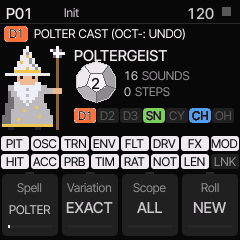
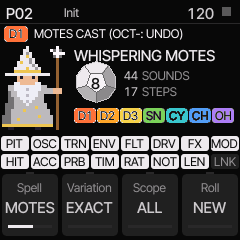
Site: new screens (Rings' resonator, Plaits' speech, plate and hall reverbs; Spells: Whispering Motes cast)

diff --git a/web/index.html b/web/index.html
@@ -165,13 +165,15 @@
     </div>
 
     <div class="feature">
-      <figure class="screen"><img src="shots/spells.png" alt="SPELLS: the wizard, Poltergeist cast on three tracks, the twelve-sided die showing 11" width="240" height="240" loading="lazy"></figure>
+      <figure class="screen"><img src="shots/spells.png" alt="SPELLS: the wizard, Whispering Motes cast on all seven tracks, the twelve-sided die showing 8" width="240" height="240" loading="lazy"></figure>
       <div>
         <h3>Spells</h3>
-        <p>Pick tracks with the black keys and what may change with the white keys, pick one of ten spells and press COPY (OCT+): a twelve-sided die rolls
+        <p>Pick tracks with the black keys and what may change with the white keys, pick one of eleven spells and press COPY (OCT+): a twelve-sided die rolls
           and the spell rewrites the sound and the steps in its own direction. Poltergeist makes metallic rattles,
           Skeleton strips a groove to its bones, Haunted Dub darkens and echoes, Glass Cathedral tunes everything
-          to one key. Roll again, take it back exactly with SHIFT (OCT−), or keep it and save it as a recipe.</p>
+          to one key. Or pick NONE for plain chance, from a nudge to anything at all, and choose which engines a cast may
+          give the voices: LXR, Rings, Plaits or MICRO. Roll again, take it back exactly with SHIFT (OCT−), or keep it
+          and save it as a recipe.</p>
       </div>
     </div>
 
@@ -217,6 +219,10 @@
       <figure class="screen"><img src="shots/global-lfo.png" alt="A global LFO's mode page" width="240" height="240" loading="lazy"><figcaption>A global LFO</figcaption></figure>
       <figure class="screen"><img src="shots/mixer.png" alt="The mixer's volume page" width="240" height="240" loading="lazy"><figcaption>The mixer</figcaption></figure>
       <figure class="screen"><img src="shots/keys.png" alt="KEYS: the keyboard playing a voice" width="240" height="240" loading="lazy"><figcaption>KEYS</figcaption></figure>
+      <figure class="screen"><img src="shots/rings.png" alt="The MODEL page: Rings' MODAL resonator, a struck bell" width="240" height="240" loading="lazy"><figcaption>Rings' resonator</figcaption></figure>
+      <figure class="screen"><img src="shots/plaits-speech.png" alt="The MODEL page: Plaits' P SPEECH, a wizard's face" width="240" height="240" loading="lazy"><figcaption>Plaits' speech</figcaption></figure>
+      <figure class="screen"><img src="shots/reverb-plate.png" alt="The REVERB page: PLATE, a steel shield" width="240" height="240" loading="lazy"><figcaption>The plate reverb</figcaption></figure>
+      <figure class="screen"><img src="shots/reverb-hall.png" alt="The REVERB page: HALL, a castle" width="240" height="240" loading="lazy"><figcaption>The hall reverb</figcaption></figure>
     </div>
   </section>
 

diff --git a/tools/site_shots.py b/tools/site_shots.py
@@ -14,7 +14,9 @@ ROOT = Path(__file__).resolve().parents[1]
 # shown on the front page, in this order: ui_test's name (without its number, which moves as tests are added; the
 # first shot of that name) -> the site's
 SHOTS = {"playing": "pattern", "grids-map": "grids", "perform2": "perform",
-         "global-lfo": "global-lfo", "links-duck-hats": "links", "spells-cast": "spells", "mixer": "mixer", "keys": "keys"}
+         "global-lfo": "global-lfo", "links-duck-hats": "links", "spells-motes": "spells", "mixer": "mixer", "keys": "keys",
+         "viz-model-modal": "rings", "viz-model-pspeech": "plaits-speech", "viz-reverb-plate": "reverb-plate",
+         "viz-reverb-hall": "reverb-hall"}
 
 
 def read_ppm(path):
